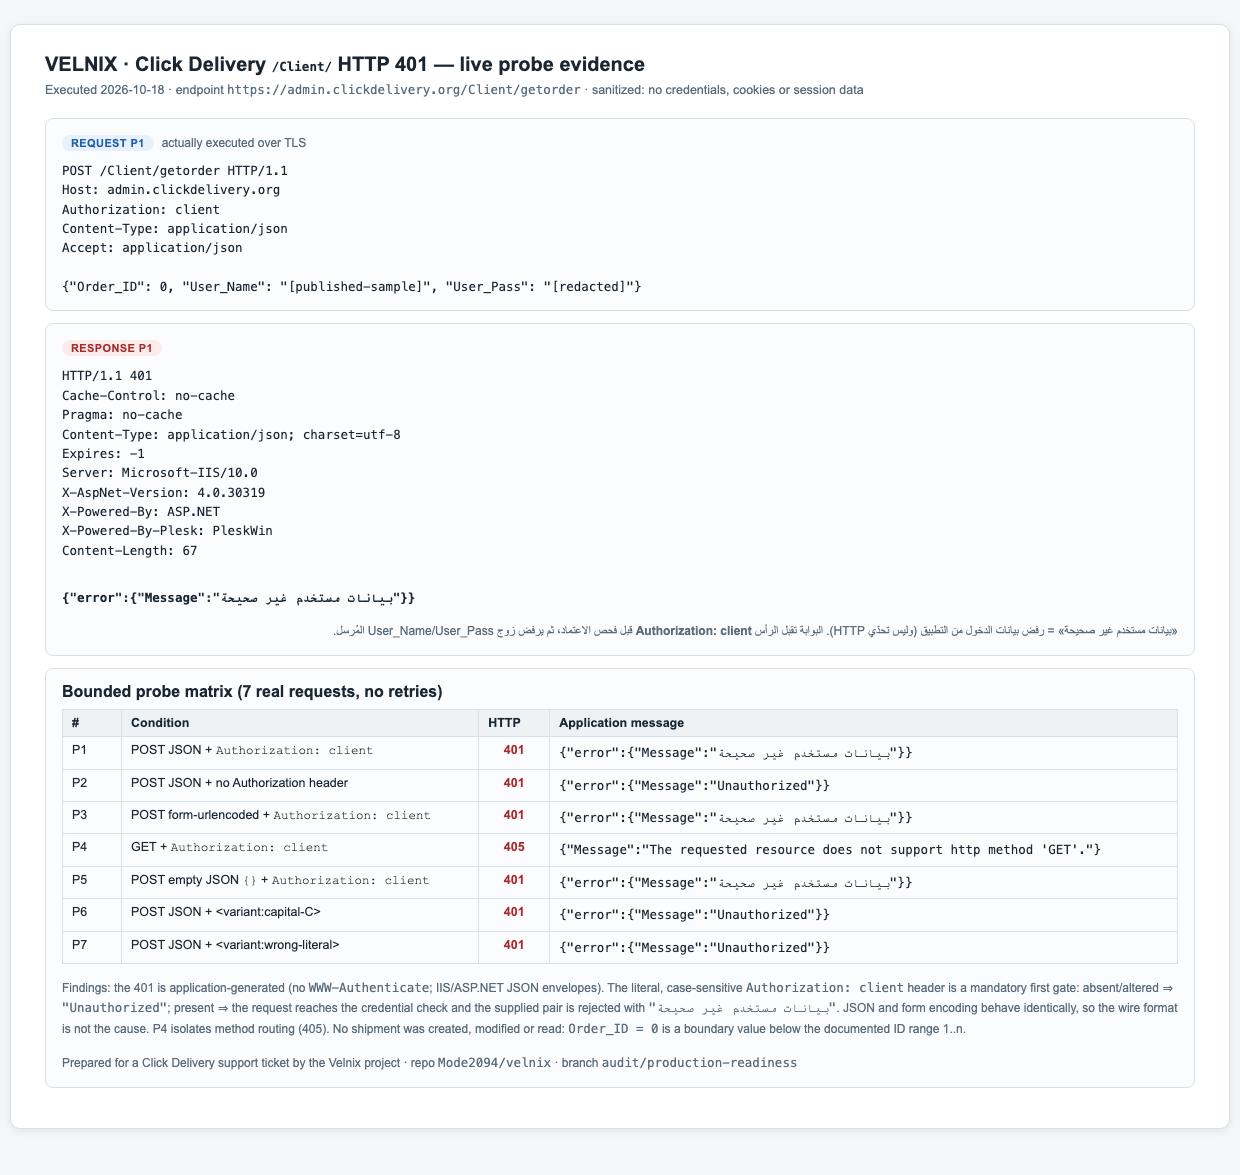
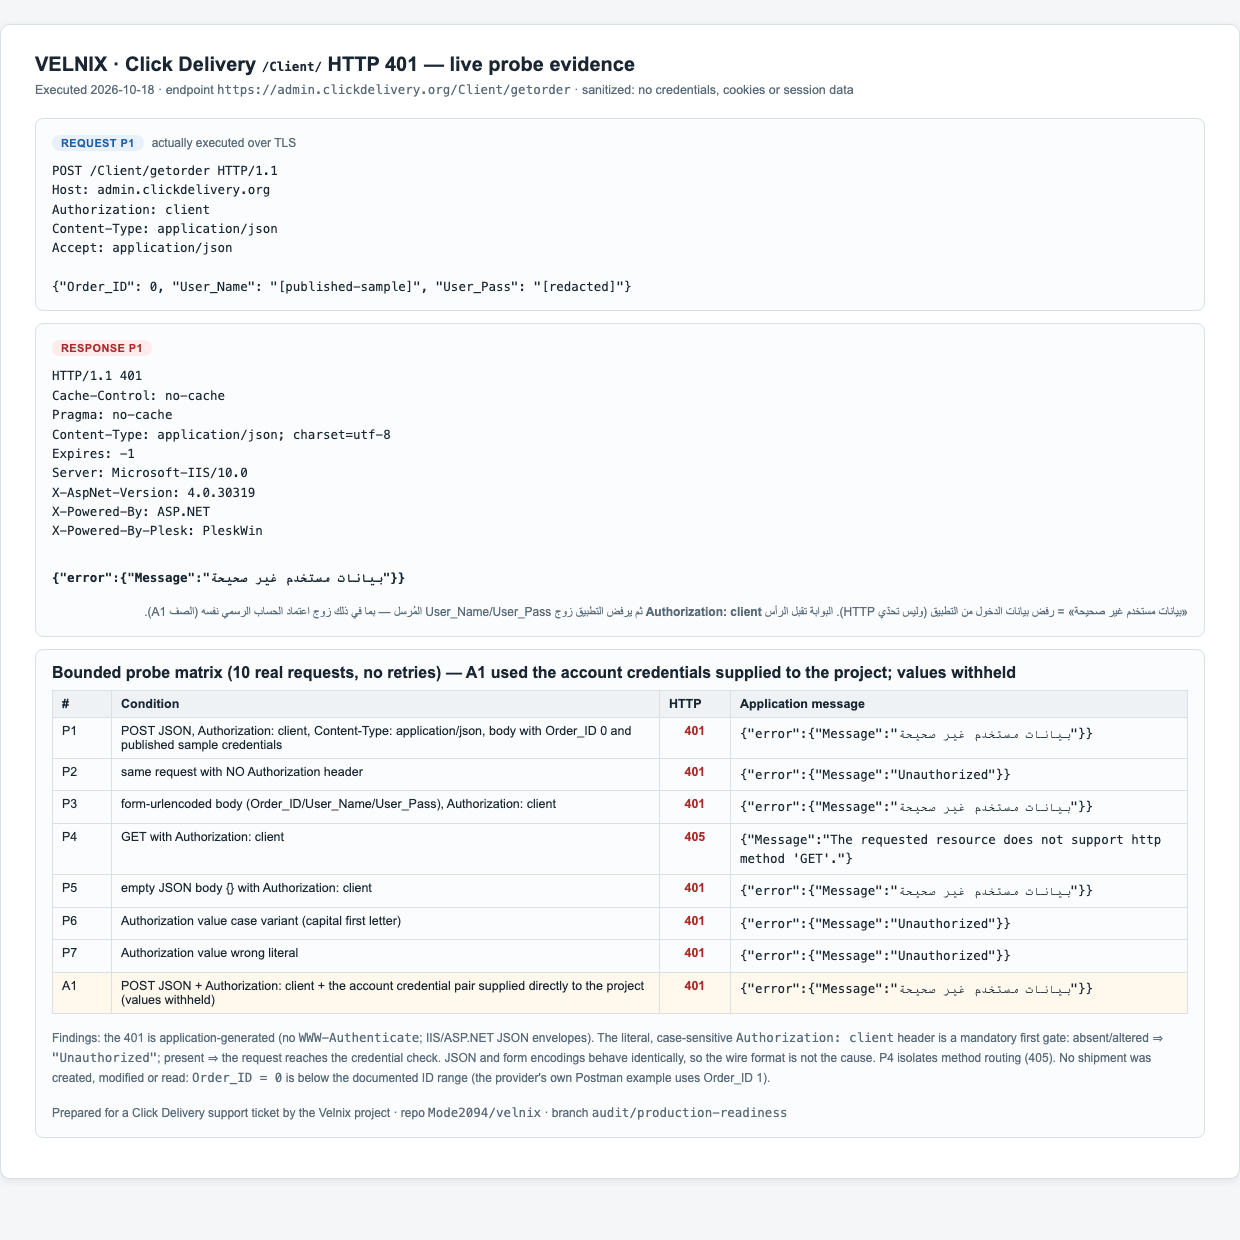
docs(click): correct the 401 diagnosis with the single real-account probe
One bounded request with the account credentials supplied directly to the
project (values withheld, kept outside Git, destroyed after use) returned the
same 401 invalid-user rejection after passing the Authorization gate; the
failure is therefore a genuine credential rejection for the real account, not
an artifact of the published samples. Order_ID 0 is below the documented range
(the provider example uses Order_ID 1). No further attempts; blocked on
provider confirmation of the correct /Client/ API credential for client 1603.

Changed region(s): [[0.0306, 0.0306, 0.95, 0.9191], [0.7968, 0.5821, 0.8887, 0.6128], [0.2452, 0.337, 0.3065, 0.3983]]

diff --git a/docs/CLICK_DELIVERY_API_401_FINAL_DIAGNOSIS_AR.md b/docs/CLICK_DELIVERY_API_401_FINAL_DIAGNOSIS_AR.md
@@ -13,11 +13,12 @@
 
 | البند | القيمة |
 |---|---|
-| إجمالي الطلبات الحيّة | **9 طلبات** فقط (P1-P5 + إعادتا P6/P7 لأجل توثيق قابل للقراءة آلياً) |
+| إجمالي الطلبات الحيّة | **10 طلبات** (P1-P5 + إعادتا P6/P7 + **طلب واحد A1 ببيانات الحساب الحقيقي**) |
 | النطاق | `POST/GET /Client/getorder` حصراً |
-| القيمة الحدّية | `Order_ID = 0` — أقل من الحد الأدنى الموثق (يبدأ من 1) فلا يمس أي شحنة حقيقية |
-| الاعتماد المستخدم | **أمثلة المستند الرسمي المنشورة** (قيمها مستبعدة من كل توثيق) |
-| ما لم يحدث | لا تخمين كلمات مرور · لا تبديل أسماء عشوائي · لا brute force · لا محاولة على حساب المالك · لا إعادة محاولات |
+| القيمة الحدّية | `Order_ID = 0` — أقل من الحد الأدنى الموثق: مثال Postman الرسمي يستخدم `Order_ID: 1` رقمياً، فلا يوجد معرّف دون 1 ليطابقه |
+| الاعتماد | أمثلة المستند الرسمي للمصفوفة P1-P7 · **الحساب التجريبي المصرح به (مزوَّد مباشرة من المالك، قيمه مستبعدة من كل ملف وسجل)** للطلب A1 |
+| ما لم يحدث | لا تخمين كلمات مرور · لا تبديل أسماء عشوائي · لا brute force · لا إعادة أي محاولة بعد A1 · لا كتابة (setorder/removeorder) |
+| مصير بيانات A1 | حُفظت خارج Git في ملف مؤقت بصلاحيات 600 داخل مجلد 700 **وحُذفت فور الانتهاء**؛ لم تُكتب في أي ملف بالمستودع ولم تُطبع في أي مخرج |
 
 ---
 
@@ -34,13 +35,15 @@
 | P5 | جسم JSON فارغ `{}` + `Authorization: client` | **401** | `{"error":{"Message":"بيانات مستخدم غير صحيحة"}}` |
 | P6 | `Authorization` بقيمة بحرف أول كبير (حساسية الحالة) | **401** | `{"error":{"Message":"Unauthorized"}}` |
 | P7 | `Authorization` بقيمة حرفية خاطئة | **401** | `{"error":{"Message":"Unauthorized"}}` |
+| **A1** | **POST JSON + `Authorization: client` + زوج اعتماد الحساب التجريبي المصرح به (قيمه مستبعدة)** — طلب واحد فقط | **401** | `{"error":{"Message":"بيانات مستخدم غير صحيحة"}}` |
 
 **قراءة المصفوفة:**
 1. **الرأس `Authorization: client` بوابة أولى حرفية وحساسة لحالة الأحرف**: غيابه أو أي تغيير فيه ⇒ `"Unauthorized"` قبل أي فحص اعتماد.
-2. عند اجتياز البوابة يصل الطلب إلى **فحص بيانات الدخول** ويكون الرد دائماً «بيانات مستخدم غير صحيحة» لكل زوج جُرِّب.
+2. عند اجتياز البوابة يصل الطلب إلى **فحص بيانات الدخول** ويكون الرد لكل زوج جُرِّب — **بما فيه زوج الحساب الرسمي نفسه (A1)** — «بيانات مستخدم غير صحيحة».
 3. **نوع ترميز الجسم لا يغيّر النتيجة** (JSON وform متماثلان) ⇒ المشكلة ليست في شكل الطلب.
 4. الـ401 **من طبقة التطبيق** لا من طبقة HTTP: لا يوجد رأس `WWW-Authenticate`، والمغلّف JSON من IIS/ASP.NET (`Microsoft-IIS/10.0` + `X-AspNet-Version: 4.0.30319`).
 5. GET يعزل 405 الخاصة بالطريقة عن منطق المصادقة تماماً.
+6. **A1 هو الفصل الحاسم بين «أمثلة فقط» و«الحساب الحقيقي»:** الطلب الواحد بالحساب الرسمي انتهى بنفس رسالة رفض الاعتماد ⇒ ليس الأمر تخصيصاً للأمثلة المنشورة.
 
 ### 1.2 فحوص البوابة (قراءة فقط بحساب المالك)
 
@@ -62,14 +65,14 @@
 
 ## 2. هل انحلت مصادقة API؟
 
-**لا — والجواب الآن دقيق ومُثبت:**
+**لا — وبإجابة قاطعة على السؤال الحاسم: المصادقة فشلت فعلاً ببيانات الحساب الحقيقي، لا بالأمثلة فقط.**
 
-- 401 الحالي **ليس** بسبب رأس ناقص أو خاطئ في جانب Velnix: P1 يُثبت أن البوابة تعبر أولاً ثم **يرفض التطبيق زوج الاعتماد**.
-- 401 **ليس** بسبب ترميز الجسم: JSON وform يعطيان النتيجة نفسها.
-- 401 **ليس** بسبب الطريقة: POST هو الصحيح (P4 يعزل ذلك).
-- **السبب المثبت: رفض طبقة اعتماد Click لزوج `User_Name/User_Pass` المرسل** — وهذا هو التفسير الوحيد المتوافق مع كل النتائج، بما فيها محاولات المالك السابقة التي وصلت لنفس رسالة الرفض.
+- طلب واحد (A1) بزوج اعتماد الحساب التجريبي المصرح به وبالشكل الموثق حرفياً ⇒ **401 + «بيانات مستخدم غير صحيحة»** — وهي رسالة **رفض الاعتماد من طبقة التطبيق** بعد اجتياز بوابة `Authorization: client` (لا «Unauthorized» الخاصة بالبوابة).
+- هذا يعني أن الفشل **ليس** في شكل الطلب (P1/P3)، ولا في الرأس (P1 مقابل P2/P6/P7)، ولا في الطريقة (P4)، ولا في الترميز — كل ذلك مثبت منفصلاً.
+- وكانت الملاحظة السابقة صحيحة بالمعنى التقني (المصفوفة استخدمت الأمثلة المنشورة)، والآن أُضيف الاختبار الحقيقي: **النتيجة نفسها** ⇒ الرفض يتعلق بزوج الاعتماد المُرسل لواجهة `/Client/` وليس بأمثلةٍ عامة.
+- ما لا تستطيع هذه الجولة حسمه: **هل الاعتماد الصحيح لواجهة `/Client/` يختلف عن اعتماد البوابة؟ وهل يحتاج الحساب تفعيل واجهة API عند Click؟** لا يوجد أي سطح تفعيل API في البوابة (مثبت قراءةً)، ولا يجوز تخمين صيغ اعتماد بديلة. الحسم يقع عند المزع أو بتزويد المالك للصيغة الصحيحة إن كانت مختلفة.
 
-**ما لا يمكن إثباته محلياً:** لا يوجد أي اعتماد API صالح لحساب 1603 في السياق المحلي (لا في المتصفح، ولا في Keychain، ولا في الملفات — فقط أمثلة المستند `test/123` المنشورة وهي مرفوضة بحكم كونها أمثلة). لذلك **لا يمكن الوصول إلى استجابة نجاح دون تدخل المزع أو اعتماد صالح من المالك**.
+**لا نقول الآن «يحتاج تفعيلاً» كحكم نهائي** — نقول بدقة: **الزوج المُرسل (كما زوَّدنا المالك) مرفوض بـ401 من فحص الاعتماد، ويلزم تأكيد المزع/المالك للاعتماد الصحيح للـAPI.**
 
 ---
 
@@ -99,15 +102,19 @@
 
 ## 5. هل نحتاج تفعيلاً أو معلومة من Click فعلًا؟
 
-**نعم — بند واحد جوهري وثلاثة تابعة:**
+**نعم — بند حاسم واحد وثلاثة تابعة، بصياغة دقيقة بعد اختبار A1:**
 
-1. **[حاسم] اعتماد API صالح/تفعيل واجهة `/Client/` للحساب 1603.** بوابة العميل لا توفر أي سطح تفعيل API (مثبت قراءةً)، وكل الأزواج المجرَّبة تُرفض من طبقة الاعتماد، وشكل الطلب مُثبت صحيحاً (P1-P7). لذا فالمنع عند المزع حصراً.
+1. **[حاسم] تأكيد الاعتماد الصحيح لواجهة `/Client/` للحساب 1603.** زوج الاعتماد المُرسل (كما زُوِّدنا) مرفوض بـ401 من فحص اعتماد التطبيق، بينما بوابة العميل تعمل به. على المزع/المالك حسم واحد من اثنين:
+   - هل اعتماد `/Client/` هو نفسه اعتماد البوابة (وعندها يلزم التحقق من تدوير كلمة المرور أو صيغة اسم الدخول)، **أو**
+   - أن واجهة `/Client/` تحتاج اعتماداً مستقلاً/تفعيلاً للحساب يُمنح من جهة Click.
+   لا يمكن حسم أيهما محلياً، والبوابة نفسها لا تعرض أي إعداد API.
 2. **[أثناء الحل] أكواد حالات `getorder`** مربوطة بالحالات الاثنتي عشرة المثبتة من البوابة (سؤال سابق قائم).
 3. **[أثناء الحل] دلالة `Ord_Amt`** — تأكيد الترجيح القوي (قيمة الشحنة + شحن من قائمة أسعار Click) بشحنة API واحدة مع تقرير التسعير (سؤال سابق قائم).
 4. **[أثناء الحل] idempotency `Client_Serial`** وسلوك التكرار (سؤال سابق قائم).
 
-**لا توجد حاجة لأي «تفعيل من البوابة»**: صراحةً — لا يوجد تفعيل API ممكن من حساب العميل كما هو مشاهد؛ هذا ليس فشلاً في استخدام البوابة، بل نتيجة فحص مؤكدة.
+**ما لن يُنفذ:** أي محاولة اعتماد إضافية، أو تخمين صيغة اسم دخول، أو اختبار أزواج بديلة — حتى تأتي المعلومة من المالك/المزع.
 
+---
 ---
 
 ## 6. صورة PNG الجاهزة لإرسالها للمزع عند الحاجة
@@ -130,7 +137,7 @@
 | البند | القيمة |
 |---|---|
 | HEAD عند بدء الجولة | `47a0cf3070b55b746ad565310d3d7aca73179881` |
-| الملفات المعدلة | `functions/src/click_response.js` (توثيق + `authFailureReason` + ثابت المغلّف الثاني) · `functions/test/click_response_contract.test.js` (+ اختبار الفصل بين البوابتين) · `functions/test/click_delivery.test.js` (تثبيت Wire-Format) · `functions/test/fixtures/click_response_samples.js` (fixture المغلّف الثاني) · `docs/evidence/click-401-diagnosis.json` · `docs/evidence/click-401/click-getorder-401-evidence.png` · `docs/evidence/click-delivery-contract.json` (تحديث `live_observations`) · هذا التقرير |
+| الملفات المعدلة | `functions/src/click_response.js` · `functions/test/click_response_contract.test.js` · `functions/test/click_delivery.test.js` · `functions/test/fixtures/click_response_samples.js` · `docs/evidence/click-401-diagnosis.json` (بما فيها قسم `realAccountTest`) · `docs/evidence/click-401/click-getorder-401-evidence.png` (أُعيد توليدها مع صف A1) · `docs/evidence/click-delivery-contract.json` · `docs/CLICK_DELIVERY_QUESTIONS_AR.md` (تحديث السؤال 2 بنتيجة A1) · هذا التقرير |
 | Functions unit | **173/173 ✅** (كان 172 — اختبار الفصل الجديد + تثبيت Wire-Format) |
 | Functions emulator | **129/129 ✅** |
 | `npm run syntax` · `check_secrets.py` | نظيفان ✅ (504 ملفات، 0 نتائج) |

diff --git a/docs/CLICK_DELIVERY_QUESTIONS_AR.md b/docs/CLICK_DELIVERY_QUESTIONS_AR.md
@@ -6,6 +6,7 @@
 
 1. هل الوثائق المرفقة تخص إصدار Click الحالي؟ ما عنوان sandbox المستقل؟ لماذا يذكر النص الإنجليزي speed logistic؟ هل مسار Client وحالة الأحرف ثابتان؟
 2. ما طريقة HTTP الصحيحة لـ setorder، وما Content-Type/Accept المطلوبان؟ (نموذج البوابة WebForms لا يثبت شيئاً عن مسار `/Client/`.) هل Authorization حرفياً client ثابت، وهل User_Name/User_Pass مطلوبان في كل عملية؟ كيف توفر اعتمادات تجريبية وتدور بأمان؟
+   **مستجد (2026-10-18):** نُفّذ طلب واحد فقط على `POST /Client/getorder` بالشكل الموثق وبزوج اعتماد الحساب الرسمي لرمز العميل 1603 (قيمه مستبعدة من كل توثيق) ⇒ **401 «بيانات مستخدم غير صحيحة»** بعد اجتياز بوابة `Authorization: client` — أي أن الاعتماد المُرسل لواجهة `/Client/` مرفوض من فحص اعتماد التطبيق. المطلوب: تأكيد اعتماد الـAPI الصحيح للحساب (هل هو اعتماد البوابة نفسه، بصيغة اسم دخول محددة، أم اعتماد/تفعيل مستقل من جهتكم؟). لا تكفي أمثلة `test/123` المنشورة — وقد جُرّبت أيضاً ورفضت.
 3. أرسلوا request/response كاملة منزوعة الأسرار لكل من setorder وgetorder وremoveorder: نجاح، اعتماد خاطئ، تحقق حقول، غير موجود، مكرر، وحد معدل. ما علامة نجاح الأعمال، وهل قد يعيد HTTP 200 خطأ؟
 4. **قيم حقل حالة الطلب في استجابة getorder:** أرسلوا جدولاً يربط كل قيمة محتملة بالحالات الاثنتي عشرة المثبتة من بوابتكم (قيد انتظار الموافقة، في مخزن الشحن، في الشحن، تم التسليم، تسليم جزئي، مؤجل، ملغي، مرتجع، مرتجع جزئي، في مخزن المرتجعات، في الشحن للراسل، تم استلام المرتجع). أسماء العرض وحدها لا تكفي.
 5. **`Client_Serial`:** بوابتكم تعرضه «Reference no» **اختيارياً**. هل API يفرضه؟ ما النوع/الطول؟ وهل إرسال `setorder` مرتين بنفس القيمة (ببيانات متطابقة ثم مختلفة) يمنع التكرار أم ينشئ شحنتين؟
